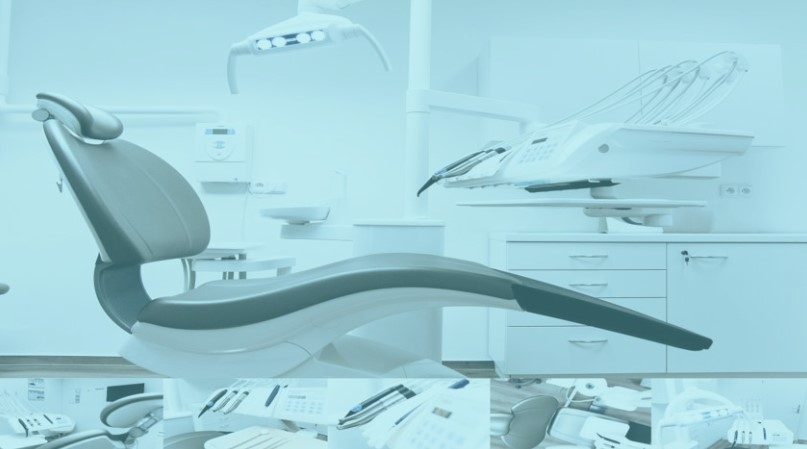
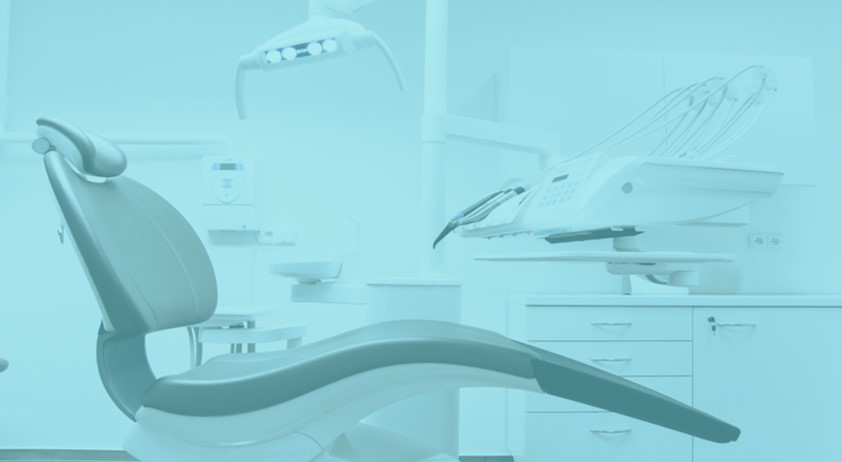
mudanças no video principal

diff --git a/site/html/index.html b/site/html/index.html
@@ -40,8 +40,8 @@
                 </div>
             </nav>
             <section class="banner">
-                <div class="banner-text">
-                    <iframe style="border-radius: 10px; box-shadow: 2px 2px 10px rgba(0, 0, 0, 0.226);" width="100%" height="315" src="https://www.youtube.com/embed/j85rWRYRhAU?si=_OSdTiROHqNrfNDt" title="YouTube video player" frameborder="0" allow="accelerometer; autoplay; clipboard-write; encrypted-media; gyroscope; picture-in-picture; web-share" allowfullscreen></iframe>
+                <div class="banner-text aumenta-tamanho">
+                    <iframe class="video-banner" width="80%" height="60%"  src="https://www.youtube.com/embed/j85rWRYRhAU?si=_OSdTiROHqNrfNDt" title="YouTube video player" frameborder="0" allow="accelerometer; autoplay; clipboard-write; encrypted-media; gyroscope; picture-in-picture; web-share" allowfullscreen></iframe>
                     
                     <h1>HealthConnect</h1>
                     

diff --git a/site/css/styles.css b/site/css/styles.css
@@ -135,7 +135,9 @@ nav .close-icon{
     margin: 18px 0;
 }
 
-
+.aumenta-tamanho{
+    height: 700px;
+}
 
 /*Faça mais*/
 .faca-mais .container{
@@ -165,13 +167,12 @@ nav .close-icon{
 
 
 
-/*Video de apresentação*/
-.video-container {
-    position: relative;
-    width: 100%;
-    padding-bottom: 56.25%; /* Proporção 16:9 para vídeos widescreen */
+.video-banner{
+    
     overflow: hidden;
-    border-radius: 10px; /* Adicione o valor que preferir para bordas arredondadas */
+    border-radius: 10px;
+    box-shadow: 2px 2px 10px rgba(0, 0, 0, 0.226);
+
 }
 
 .video-container iframe {

diff --git a/site/html/contato.html b/site/html/contato.html
@@ -74,7 +74,7 @@
                           <tr>
                             <td><img src="../img/lucca.jpg" alt="Foto 2" width="60" height="80px"></td>
                             <td>Lucca</td>
-                            <td>552878</td>
+                            <td>553678</td>
                           </tr>
                         </tbody>
                       </table>
